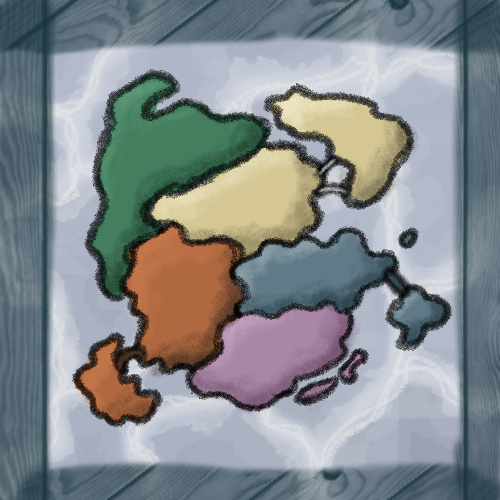
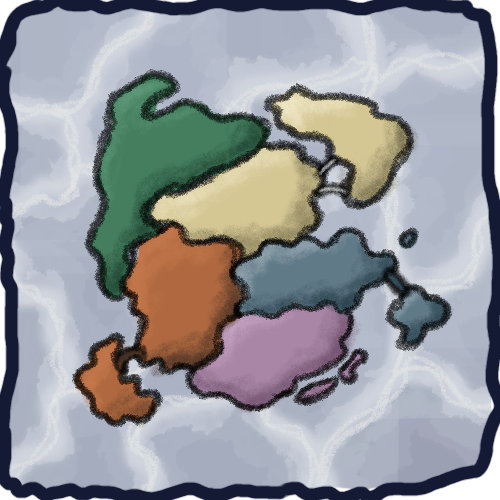
new map and comments

diff --git a/src/Map.ts b/src/Map.ts
@@ -43,6 +43,10 @@ export default class Map extends CanvasItem {
       this.posY + LostInTheForest.canvas.width * 0.1));
   }
 
+  /**
+   * If there gets gets clicked on the map icons
+   * @param mouseListener used to check if something is clicked
+   */
   public processInput(mouseListener: MouseListener): void {
     this.areaButtons.forEach((areaButton: AreaButton) => {
       if (areaButton.isCollidingWithMouse(mouseListener)) {
@@ -51,14 +55,19 @@ export default class Map extends CanvasItem {
     });
   }
 
+  /**
+   * updates maps icons
+   */
   public update(): void {
     this.areaButtons.forEach((areaButton: AreaButton) => {
       areaButton.update();
     });
   }
 
+  /**
+   * renders the map
+   */
   public override render(): void {
-    // TODO: Render the area buttons
     super.render();
     this.areaButtons.forEach((areaButton: AreaButton) => {
       areaButton.render();

diff --git a/src/AreaButton.ts b/src/AreaButton.ts
@@ -16,6 +16,9 @@ export default class AreaButton extends Button {
     this.isFinished = false;
   }
 
+  /**
+   * Gives the right map icon depending on if its on the area and if the area is finished
+   */
   public update(): void {
     if (LostInTheForest.currentStage == this.area) {
       // Current stage is the same as this area
